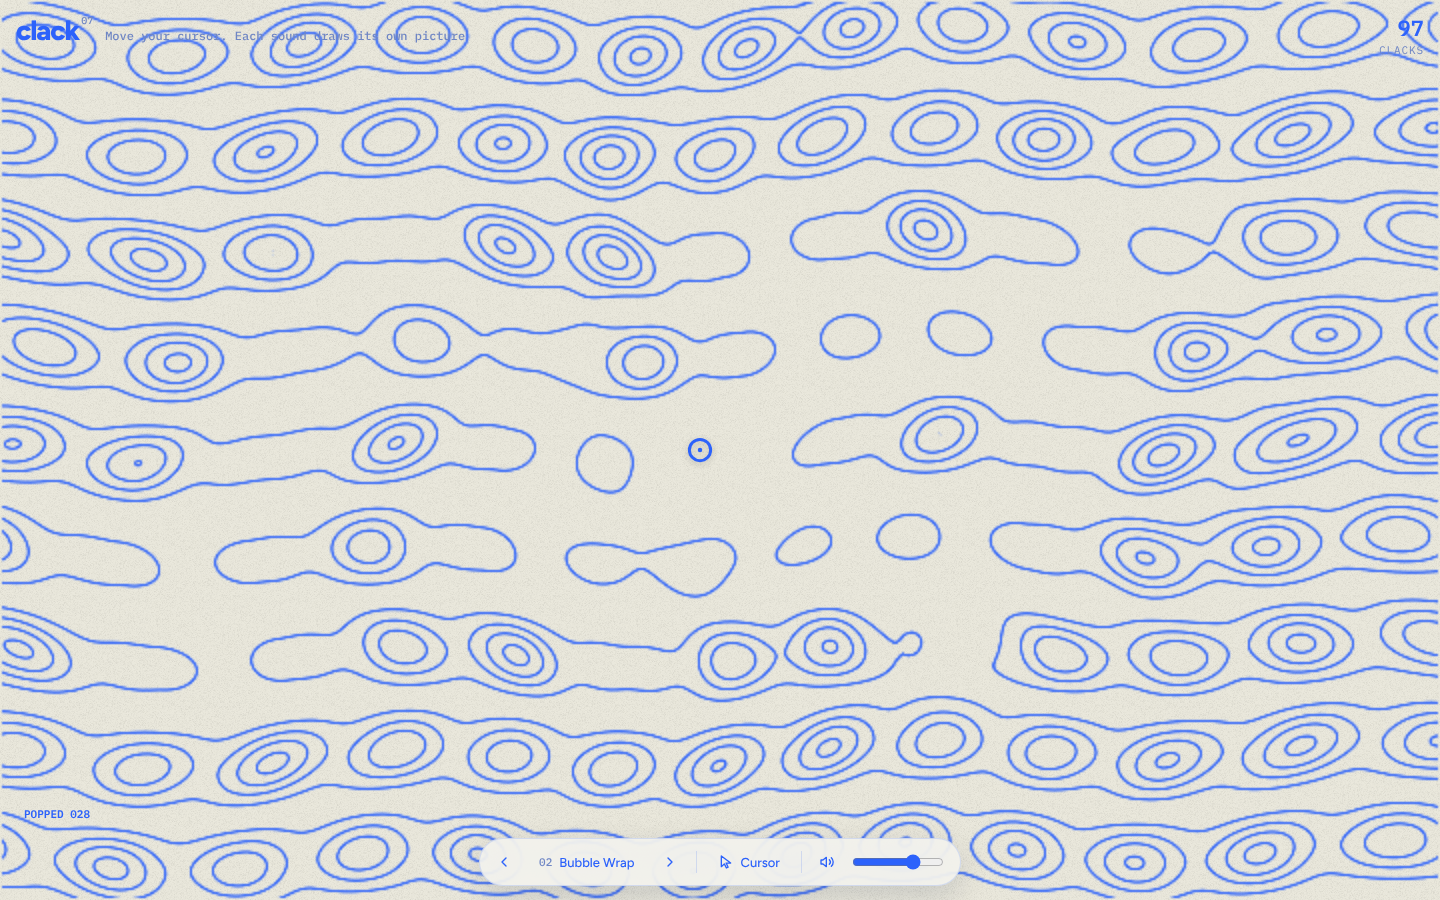
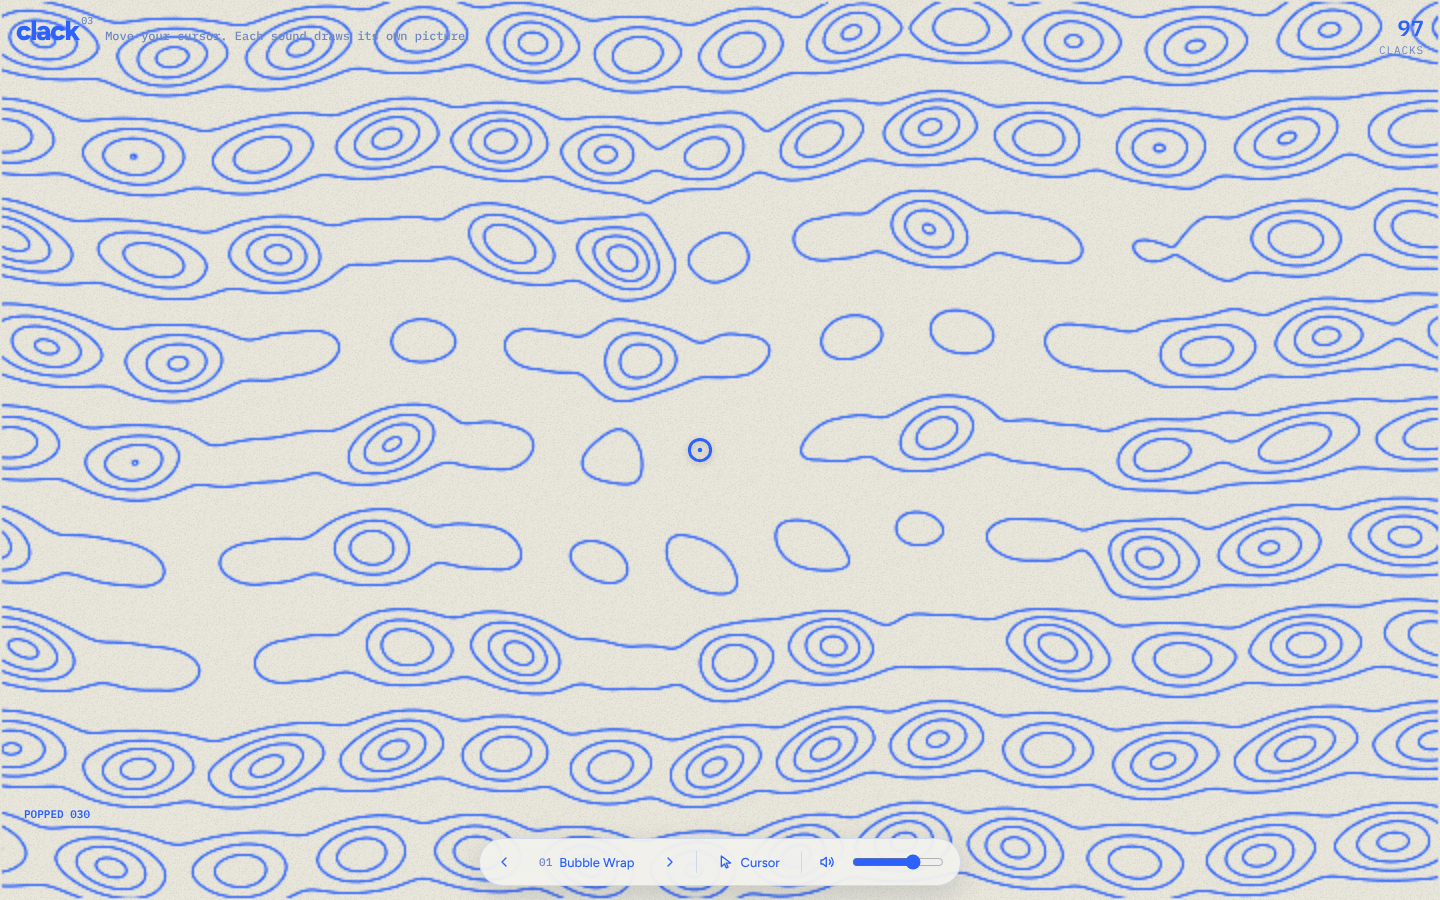
Kinetic Sand: grains fall under gravity into a dune; drop the vertical lines
Claude-Session: https://claude.ai/code/session_01RGg1knSDUuuatZ2pa2YvBi

diff --git a/index.html b/index.html
@@ -652,13 +652,14 @@ const SCENES = {
     }
   },
 
-  /* 05 Kinetic Sand: white tick marks on grainy green, laid out on rows like a raked sand garden. Rings spread out
-     from a bright band, packed tight near it and wide apart far away. The ticks are grains: the cursor parts them like
-     a finger dragged through sand and they shiver as it passes, and each step spills a trickle of loose grains that
-     patter down, settle on a row and sink back in, matching the hiss and tiny grain ticks of the sound. */
+  /* 03 Kinetic Sand: white tick marks on grainy green, laid out on rows like a raked sand garden, in rings packed
+     tight near the centre and wide apart far away. The ticks are grains: the cursor parts them like a finger dragged
+     through sand, and each step knocks the grains around it loose. They fall under gravity, pile up along the bottom
+     in a little dune, and the hole they left in the rings slowly fills back in. */
   sand: {
     init() {
-      this.cy = (ZT + ZB) / 2; this.ty = this.cy; this.ph = 0; this.boost = 0; this.pulses = []; this.gr = [];
+      this.cy = (ZT + ZB) / 2; this.ty = this.cy; this.ph = 0; this.boost = 0; this.pulses = []; this.gr = []; this.holes = [];
+      this.pile = new Float32Array(Math.ceil(SW / 3) + 2);
       this.cur = { x: -999, y: -999, t: 0, a: 0 };
       this.row = clamp(Math.round(Math.min(SW, SH) / 70), 9, 14);
       paper(dc, '#4d7c66', .16);
@@ -666,9 +667,9 @@ const SCENES = {
     move(x, y) { this.ty = clamp(y, ZT + 40, ZB - 40); this.cur.x = x; this.cur.y = y; this.cur.t = performance.now(); },
     hit(x, y, k, now) {
       this.boost = Math.min(3, this.boost + .12); this.pulses.push({ t0: now }); if (this.pulses.length > 10) this.pulses.shift();
-      // the sound plays sixteen grain ticks spread over a quarter second, so spill as many grains, staggered the same way
-      for (let i = 0; i < 16; i++) this.gr.push({ x: x + rand(-8, 8), y: y + rand(-6, 4), vx: rand(-.9, .9), vy: rand(-1.2, .2), t0: now + Math.pow(Math.random(), 1.6) * 260, land: 0 });
-      if (this.gr.length > 400) this.gr.splice(0, this.gr.length - 400);
+      // knock a hole in the rings; the next frame turns every tick inside it into a falling grain
+      this.holes.push({ x, y, t0: now, R: this.row * rand(2.6, 3.6), fresh: true });
+      if (this.holes.length > 40) this.holes.shift();
     },
     // a grain's place on a ring, nudged away from the finger and shivering while the finger is near
     shift(x, y, now) {
@@ -684,11 +685,19 @@ const SCENES = {
       this.ph = (this.ph + dt * .00012 * (1 + this.boost * 3)) % 1;
       this.pulses = this.pulses.filter(p => now - p.t0 < 3000);
       const c = this.cur; c.a += (clamp(1 - (now - c.t - 250) / 700, 0, 1) - c.a) * Math.min(1, dt * .01);
-      const left = SW * .05, right = SW * .93, cx = SW * .72, cy = this.cy, Rmax = cx - left * 1.6, N = 34, row = this.row, th = row * .45;
+      const left = SW * .05, right = SW * .95, cx = SW * .72, cy = this.cy, Rmax = cx - left * 1.6, N = 34, row = this.row, th = row * .45;
       const top = ZT + row, bot = ZB - row * 2;
       sc.fillStyle = '#f4f6ef';
-      // the frame: two dashed rules at the edges
-      for (let y = top; y < bot; y += row) { sc.globalAlpha = .7; sc.fillRect(left, y, 1.4, th); sc.fillRect(right, y, 1.4, th); }
+      // holes refill from the rim inward over a few seconds
+      this.holes = this.holes.filter(hl => now - hl.t0 < 5000);
+      const k2 = dt / 16, holes = this.holes;
+      const tick = (x, y) => {
+        for (const hl of holes) {
+          const dx = x - hl.x, dy = y - hl.y, rr = hl.R * (hl.fresh ? 1 : Math.min(1, 1.25 - (now - hl.t0) / 4000));
+          if (dx * dx + dy * dy < rr * rr) { if (hl.fresh && this.gr.length < 700) this.gr.push({ x, y, vx: rand(-.5, .5) + dx * .02, vy: rand(-1.4, -.2), t0: now + Math.random() * 180, land: 0 }); return; }
+        }
+        sc.fillRect(this.shift(x, y, now), y, 1.4, th);
+      };
       for (let k = 0; k < N; k++) {
         // radii bunch up near the band: equal steps in a power curve, sliding outward with the phase
         const u = (k + this.ph) / N, r = Rmax * Math.pow(u, 1.7);
@@ -699,25 +708,31 @@ const SCENES = {
         for (let y = top; y < bot; y += row) {
           const dy = y + th / 2 - cy; if (Math.abs(dy) >= r) continue;
           const dx = Math.sqrt(r * r - dy * dy);
-          sc.fillRect(this.shift(cx - dx, y, now), y, 1.4, th);
-          if (cx + dx < right - 4) sc.fillRect(this.shift(cx + dx, y, now), y, 1.4, th);
+          tick(cx - dx, y);
+          if (cx + dx < right - 4) tick(cx + dx, y);
         }
       }
-      // the bright band: rows of short dashes stacked tight where every ring begins
-      sc.globalAlpha = .95;
-      for (let y = top; y < bot; y += row) { const fall = 1 - Math.min(1, Math.abs(y - cy) / (SH * .55)); for (let i = -3; i <= 3; i++) if (Math.abs(i) < 1 + fall * 3.2) sc.fillRect(this.shift(cx + i * 3 - .7, y, now), y, 2.2, th); }
-      // loose grains: fall, land on the next row of ticks, rest a moment and sink back into the sand
-      const k2 = dt / 16;
-      this.gr = this.gr.filter(g => now < g.t0 || (g.land ? now - g.land < 900 : g.y < bot));
+      for (const hl of holes) hl.fresh = false;
+      // loose grains fall under gravity and heap up along the floor; a grain slides off any slope steeper than its
+      // neighbours, so the heap spreads into a dune. Grains sink away after a while and the dune shrinks with them.
+      const P = this.pile, floor = bot + th, gh = th * .6;
+      this.gr = this.gr.filter(g => {
+        if (!g.land || now - g.land < 7000) return true;
+        P[g.bin] = Math.max(0, P[g.bin] - gh); return false;
+      });
       for (const g of this.gr) {
         if (now < g.t0) continue;
         if (!g.land) {
-          g.vy += .14 * k2; g.vx *= Math.pow(.97, k2); g.x += g.vx * k2; g.y += g.vy * k2;
-          const r0 = top + Math.ceil((g.y - top) / row) * row; // the row just below
-          if (g.vy > 0 && g.y + th >= r0 && g.y + th - g.vy * k2 < r0 && Math.random() < .35) { g.y = r0; g.land = now; }
+          g.vy = Math.min(g.vy + .18 * k2, 9); g.vx *= Math.pow(.985, k2); g.x += g.vx * k2; g.y += g.vy * k2;
+          let bin = clamp(Math.round(g.x / 3), 1, P.length - 2);
+          if (g.y + th >= floor - P[bin]) {
+            for (let n = 0; n < 12; n++) { const l = P[bin - 1], r = P[bin + 1], m = P[bin]; if (l < m - gh * 1.5 && bin > 1 && (l <= r || bin >= P.length - 2)) bin--; else if (r < m - gh * 1.5 && bin < P.length - 2) bin++; else break; }
+            g.bin = bin; g.x = bin * 3 + rand(-.6, .6); g.y = floor - P[bin] - th; P[bin] += gh; g.land = now;
+          }
         }
-        sc.globalAlpha = g.land ? .9 * (1 - (now - g.land) / 900) : .9;
-        sc.fillRect(g.x, g.y, 1.4, g.land ? th : th * .7);
+        const fade = g.land ? clamp((7000 - (now - g.land)) / 1500, 0, 1) : 1;
+        sc.globalAlpha = .92 * fade;
+        sc.fillRect(g.x, g.y, 1.4, th);
       }
       sc.globalAlpha = 1;
     }

diff --git a/README.md b/README.md
@@ -8,7 +8,7 @@ A stress-relief sound toy. Move your cursor across the screen and every step cli
 |---|-------|---------|
 | 01 | Bubble Wrap | The sheet as a blue contour map on cream paper: each bubble is a hill of rings, and a pop flattens it and sends a ripple through its neighbours before it slowly refills |
 | 02 | Crunchy Slime | A sheet of + stitches that crumples like paper: each step folds it along a straight crease into flat, angular facets that slowly flatten out |
-| 03 | Kinetic Sand | White tick marks on grainy green rippling out from a bright band; the cursor parts the ticks like a finger in sand, and each step spills a trickle of grains that patter down and settle |
+| 03 | Kinetic Sand | White tick marks on grainy green in rippling rings; the cursor parts them like a finger in sand, and each step knocks grains loose that fall under gravity into a dune along the bottom while the hole slowly refills |
 
 - **Just move**: sounds play as your cursor moves. On touch screens, drag a finger. The page always opens on 01 Bubble Wrap.
 - **Custom cursor**: 9 shapes, any color, adjustable size and trail.
